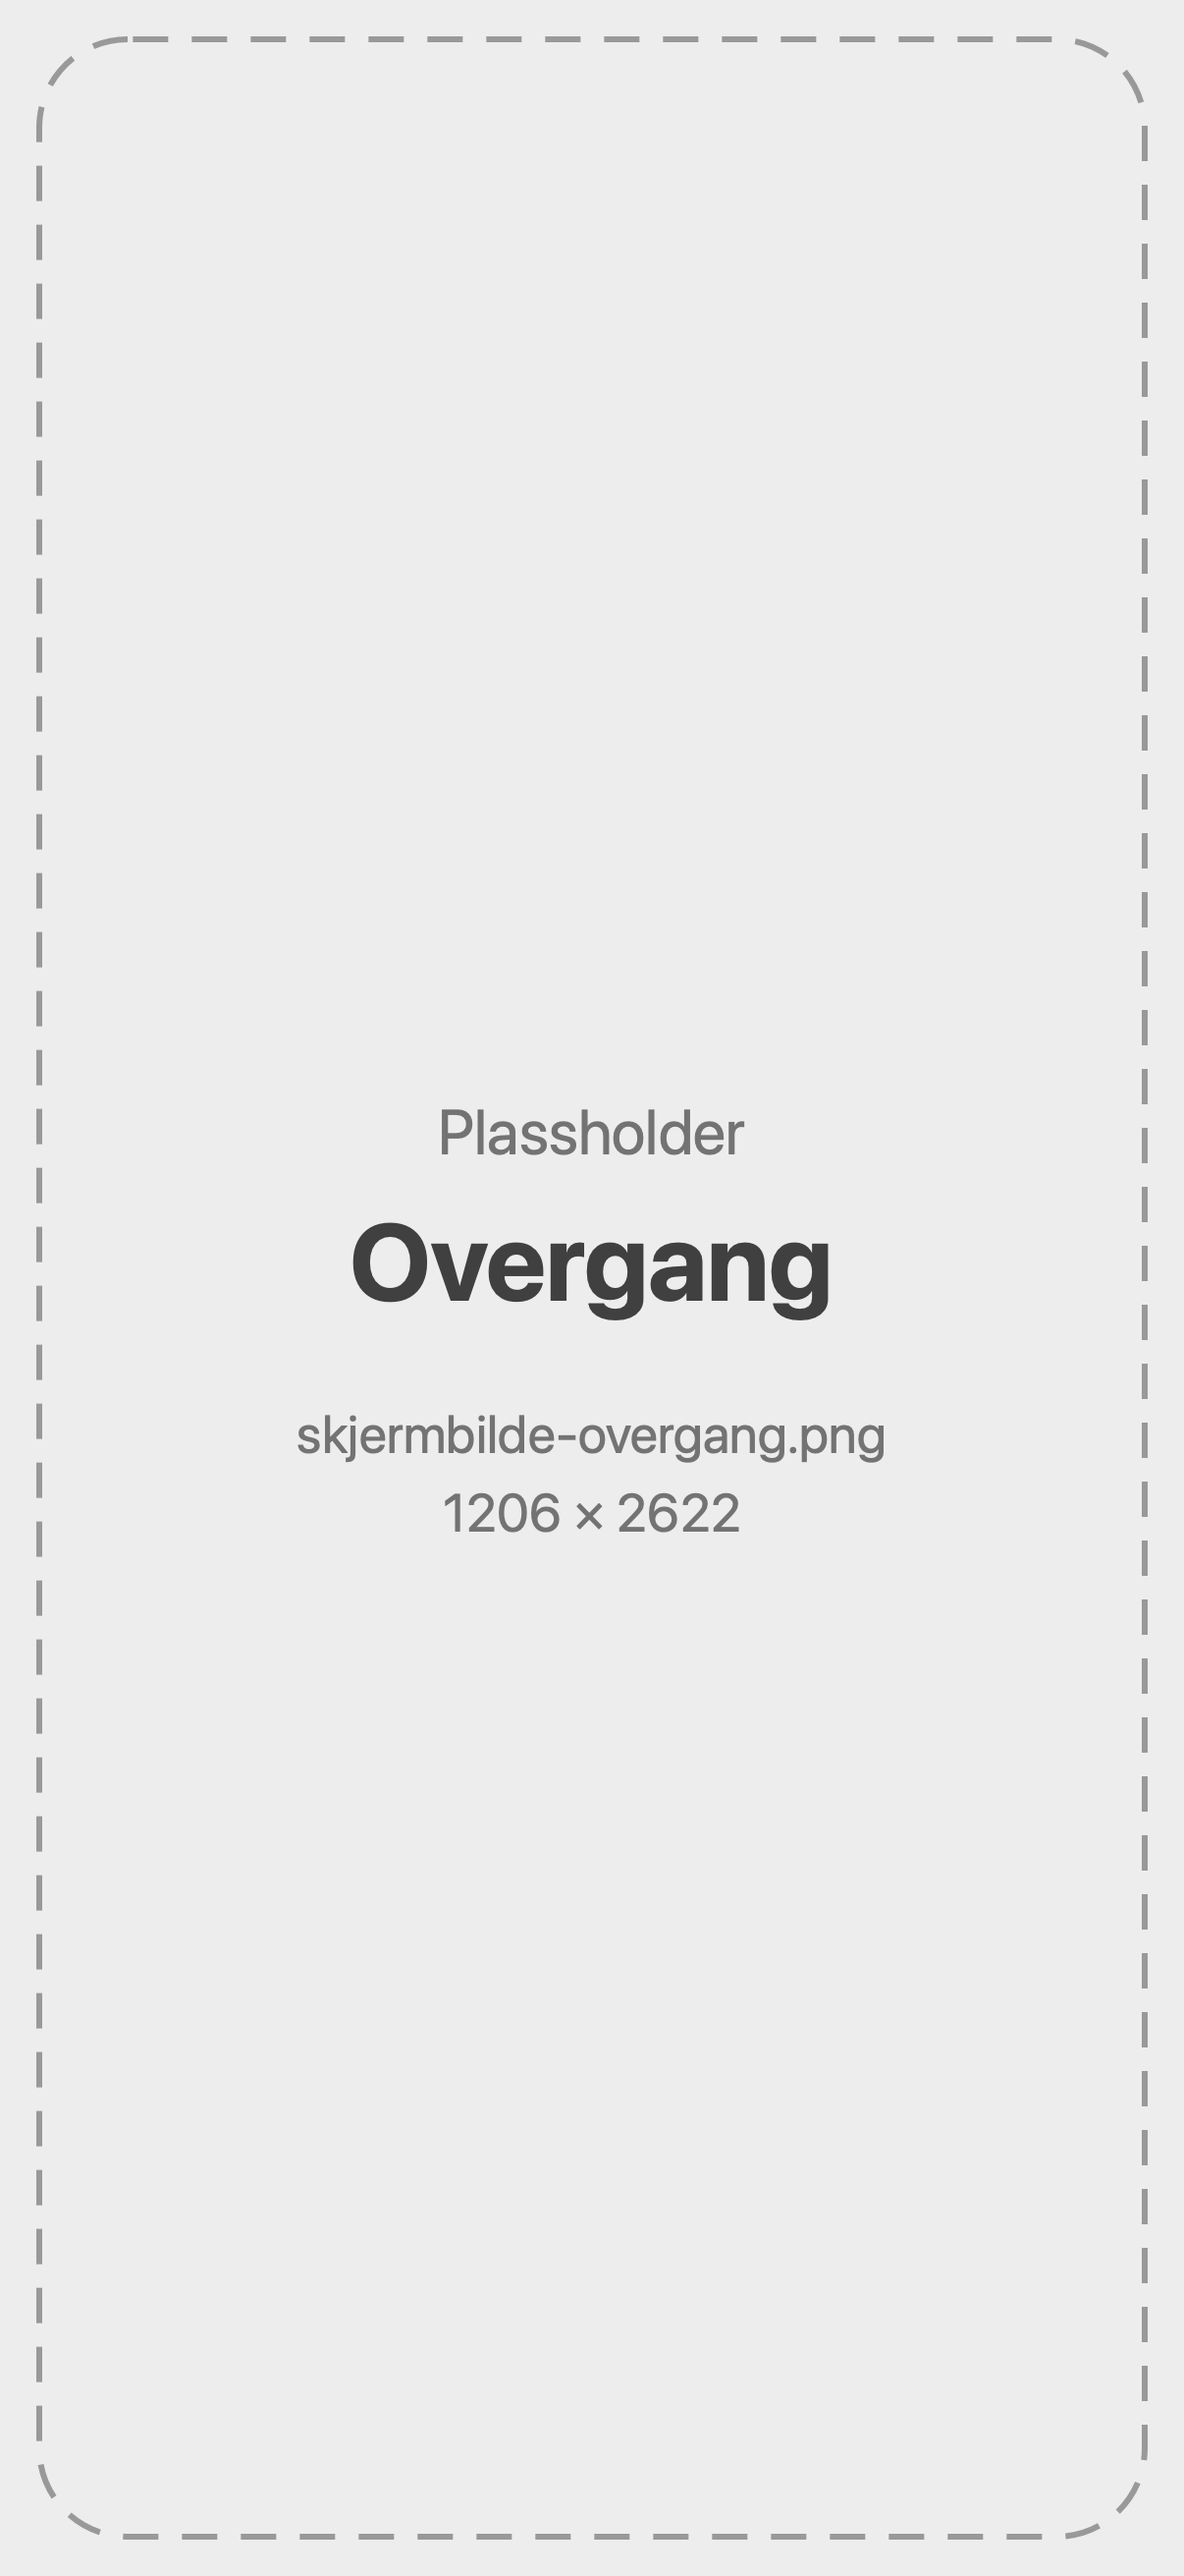
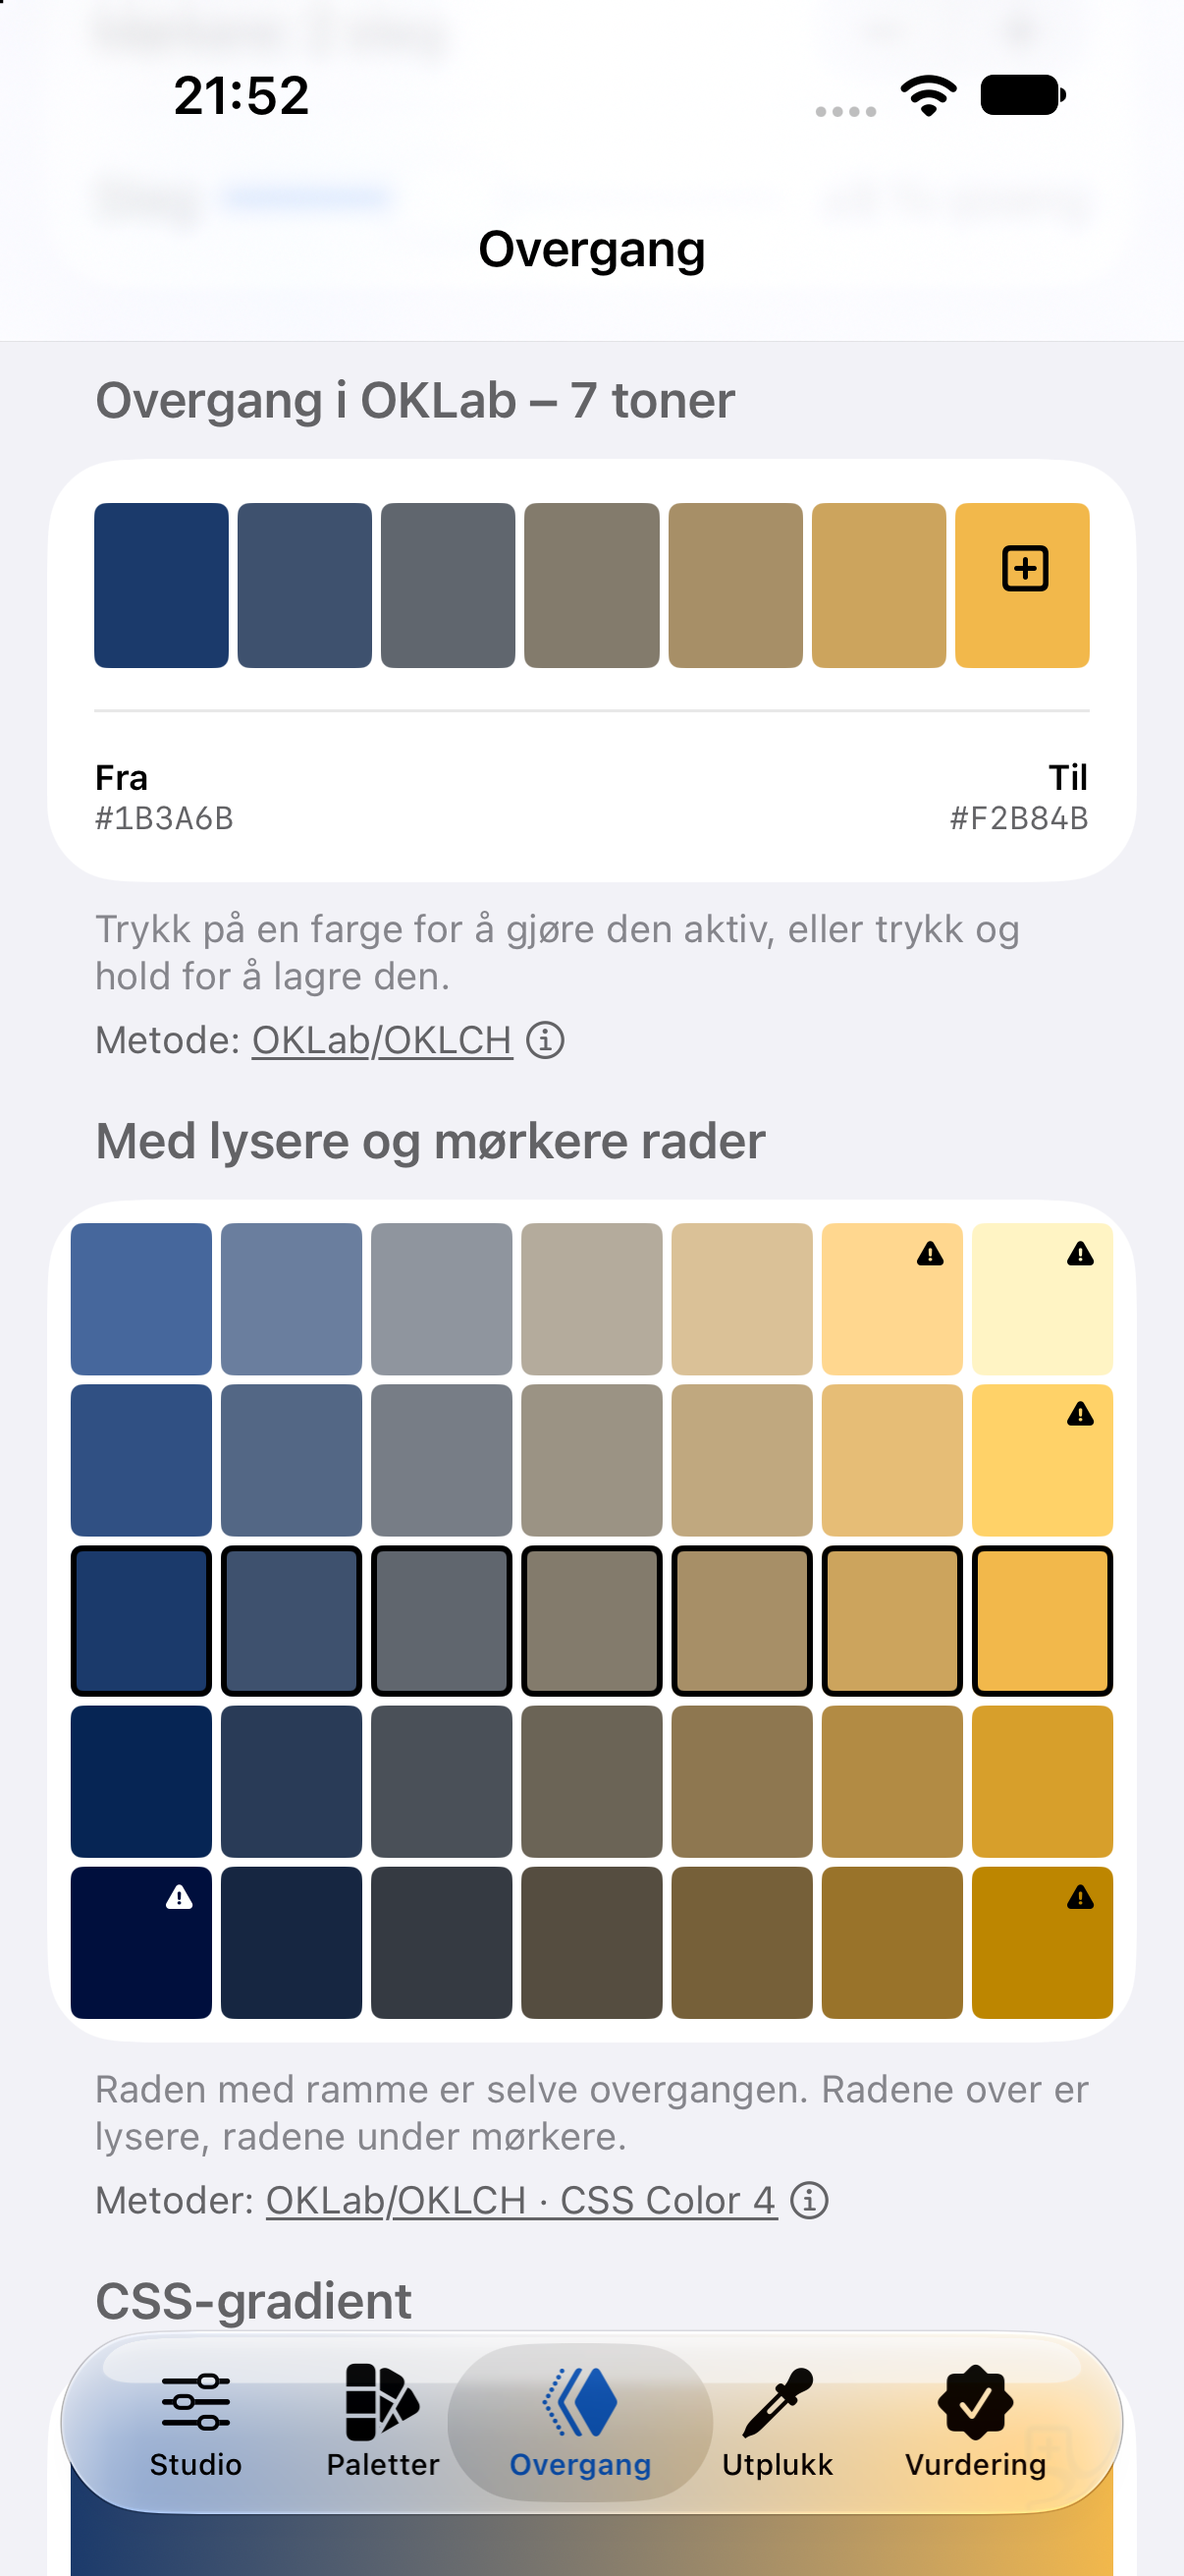
Nettside: NTNU, Fakultet for arkitektur og design, Institutt for design i bunntekst og kontakt

diff --git a/web/en/support.html b/web/en/support.html
@@ -56,7 +56,7 @@
         <li>what you did, what you expected and what happened</li>
         <li>a screenshot or the colour values involved, if possible</li>
       </ul>
-      <p class="dempet">Kolorist is made by Eivind Arnstein Johansen.</p>
+      <p class="dempet">Kolorist is made by Eivind Arnstein Johansen, who works at NTNU – Faculty of Architecture and Design, Department of Design. The app is an independent project.</p>
     </section>
 
     <section class="faq" aria-labelledby="faq">
@@ -216,7 +216,7 @@
           <li><a href="../support.html" hreflang="nb" lang="nb">Norsk</a></li>
         </ul>
       </nav>
-      <p class="utvikler">Kolorist is developed by Eivind Arnstein Johansen.</p>
+      <p class="utvikler">Kolorist is developed by Eivind Arnstein Johansen, NTNU – Faculty of Architecture and Design, Department of Design.</p>
       <p>© 2026 Eivind Arnstein Johansen. Apple, iPhone, iPad, Mac, iCloud, Siri and Apple Intelligence are trademarks of Apple Inc.</p>
     </div>
   </footer>

diff --git a/web/support.html b/web/support.html
@@ -56,7 +56,7 @@
         <li>hva du gjorde, hva du forventet og hva som skjedde</li>
         <li>gjerne et skjermbilde eller fargeverdiene det gjelder</li>
       </ul>
-      <p class="dempet">Kolorist er laget av Eivind Arnstein Johansen.</p>
+      <p class="dempet">Kolorist er laget av Eivind Arnstein Johansen, som jobber ved NTNU – Fakultet for arkitektur og design, Institutt for design. Appen er et selvstendig prosjekt.</p>
     </section>
 
     <section class="faq" aria-labelledby="faq">
@@ -216,7 +216,7 @@
           <li><a href="en/support.html" hreflang="en" lang="en">English</a></li>
         </ul>
       </nav>
-      <p class="utvikler">Kolorist er utviklet av Eivind Arnstein Johansen.</p>
+      <p class="utvikler">Kolorist er utviklet av Eivind Arnstein Johansen, NTNU – Fakultet for arkitektur og design, Institutt for design.</p>
       <p>© 2026 Eivind Arnstein Johansen. Apple, iPhone, iPad, Mac, iCloud, Siri og Apple Intelligence er varemerker for Apple Inc.</p>
     </div>
   </footer>

diff --git a/web/en/methods.html b/web/en/methods.html
@@ -109,7 +109,7 @@
           <li><a href="../methods.html" hreflang="nb" lang="nb">Norsk</a></li>
         </ul>
       </nav>
-      <p class="utvikler">Kolorist is developed by Eivind Arnstein Johansen.</p>
+      <p class="utvikler">Kolorist is developed by Eivind Arnstein Johansen, NTNU – Faculty of Architecture and Design, Department of Design.</p>
       <p>© 2026 Eivind Arnstein Johansen. Apple, iPhone, iPad, Mac, iCloud, Siri and Apple Intelligence are trademarks of Apple Inc.</p>
     </div>
   </footer>

diff --git a/web/en/privacy.html b/web/en/privacy.html
@@ -119,7 +119,7 @@
           <li><a href="../privacy.html" hreflang="nb" lang="nb">Norsk</a></li>
         </ul>
       </nav>
-      <p class="utvikler">Kolorist is developed by Eivind Arnstein Johansen.</p>
+      <p class="utvikler">Kolorist is developed by Eivind Arnstein Johansen, NTNU – Faculty of Architecture and Design, Department of Design.</p>
       <p>© 2026 Eivind Arnstein Johansen. Apple, iPhone, iPad, Mac, iCloud, Siri and Apple Intelligence are trademarks of Apple Inc.</p>
     </div>
   </footer>

diff --git a/web/en/index.html b/web/en/index.html
@@ -266,7 +266,7 @@
           <li><a href="../index.html" hreflang="nb" lang="nb">Norsk</a></li>
         </ul>
       </nav>
-      <p class="utvikler">Kolorist is developed by Eivind Arnstein Johansen.</p>
+      <p class="utvikler">Kolorist is developed by Eivind Arnstein Johansen, NTNU – Faculty of Architecture and Design, Department of Design.</p>
       <p>© 2026 Eivind Arnstein Johansen. Apple, iPhone, iPad, Mac, iCloud, Siri and Apple Intelligence are trademarks of Apple Inc.</p>
     </div>
   </footer>

diff --git a/web/methods.html b/web/methods.html
@@ -109,7 +109,7 @@
           <li><a href="en/methods.html" hreflang="en" lang="en">English</a></li>
         </ul>
       </nav>
-      <p class="utvikler">Kolorist er utviklet av Eivind Arnstein Johansen.</p>
+      <p class="utvikler">Kolorist er utviklet av Eivind Arnstein Johansen, NTNU – Fakultet for arkitektur og design, Institutt for design.</p>
       <p>© 2026 Eivind Arnstein Johansen. Apple, iPhone, iPad, Mac, iCloud, Siri og Apple Intelligence er varemerker for Apple Inc.</p>
     </div>
   </footer>

diff --git a/web/privacy.html b/web/privacy.html
@@ -117,7 +117,7 @@
           <li><a href="en/privacy.html" hreflang="en" lang="en">English</a></li>
         </ul>
       </nav>
-      <p class="utvikler">Kolorist er utviklet av Eivind Arnstein Johansen.</p>
+      <p class="utvikler">Kolorist er utviklet av Eivind Arnstein Johansen, NTNU – Fakultet for arkitektur og design, Institutt for design.</p>
       <p>© 2026 Eivind Arnstein Johansen. Apple, iPhone, iPad, Mac, iCloud, Siri og Apple Intelligence er varemerker for Apple Inc.</p>
     </div>
   </footer>

diff --git a/web/en/terms.html b/web/en/terms.html
@@ -86,7 +86,7 @@
           <li><a href="../terms.html" hreflang="nb" lang="nb">Norsk</a></li>
         </ul>
       </nav>
-      <p class="utvikler">Kolorist is developed by Eivind Arnstein Johansen.</p>
+      <p class="utvikler">Kolorist is developed by Eivind Arnstein Johansen, NTNU – Faculty of Architecture and Design, Department of Design.</p>
       <p>© 2026 Eivind Arnstein Johansen. Apple, iPhone, iPad, Mac, iCloud, Siri and Apple Intelligence are trademarks of Apple Inc.</p>
     </div>
   </footer>

diff --git a/web/index.html b/web/index.html
@@ -266,7 +266,7 @@
           <li><a href="en/index.html" hreflang="en" lang="en">English</a></li>
         </ul>
       </nav>
-      <p class="utvikler">Kolorist er utviklet av Eivind Arnstein Johansen.</p>
+      <p class="utvikler">Kolorist er utviklet av Eivind Arnstein Johansen, NTNU – Fakultet for arkitektur og design, Institutt for design.</p>
       <p>© 2026 Eivind Arnstein Johansen. Apple, iPhone, iPad, Mac, iCloud, Siri og Apple Intelligence er varemerker for Apple Inc.</p>
     </div>
   </footer>

diff --git a/web/terms.html b/web/terms.html
@@ -86,7 +86,7 @@
           <li><a href="en/terms.html" hreflang="en" lang="en">English</a></li>
         </ul>
       </nav>
-      <p class="utvikler">Kolorist er utviklet av Eivind Arnstein Johansen.</p>
+      <p class="utvikler">Kolorist er utviklet av Eivind Arnstein Johansen, NTNU – Fakultet for arkitektur og design, Institutt for design.</p>
       <p>© 2026 Eivind Arnstein Johansen. Apple, iPhone, iPad, Mac, iCloud, Siri og Apple Intelligence er varemerker for Apple Inc.</p>
     </div>
   </footer>
